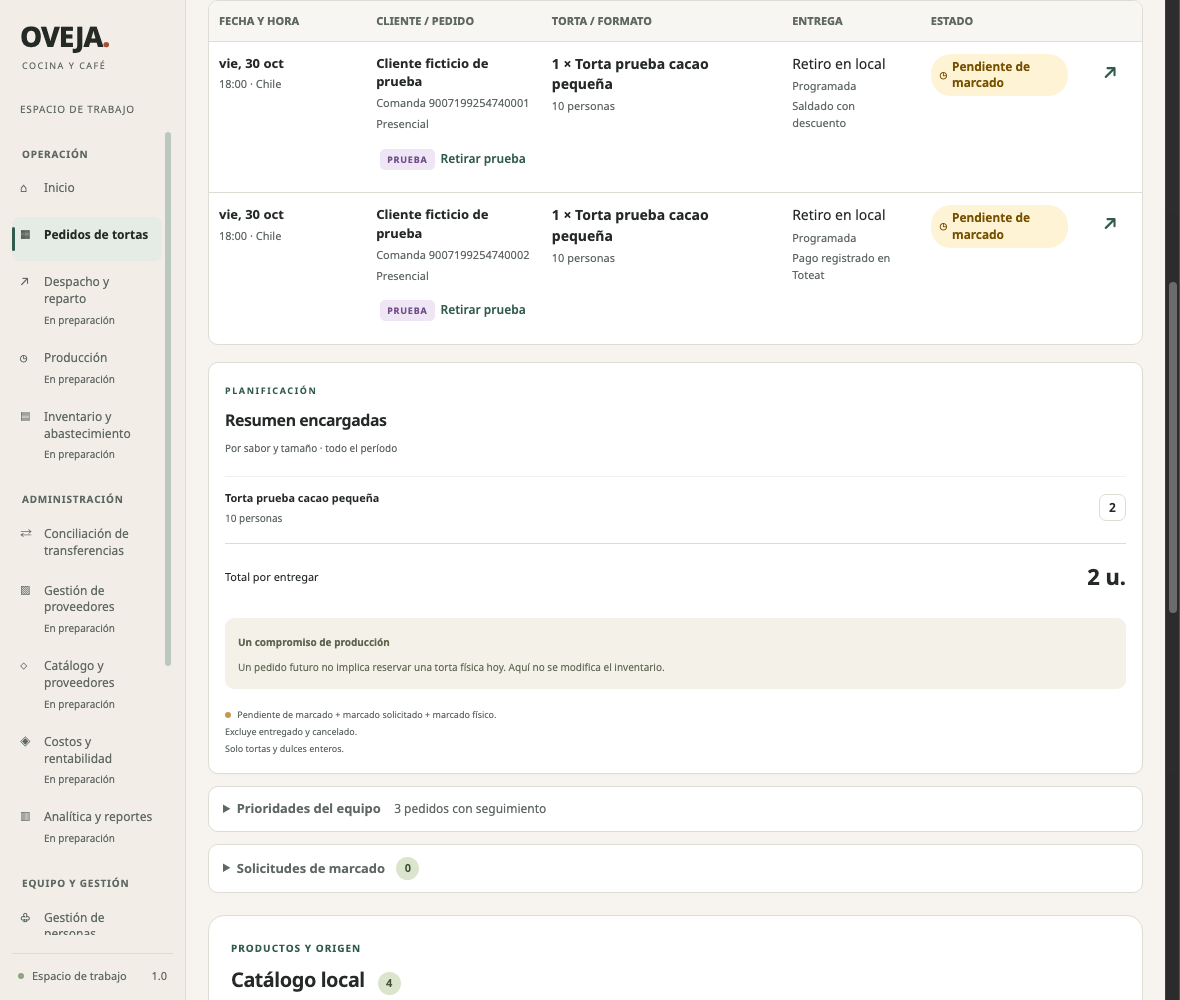
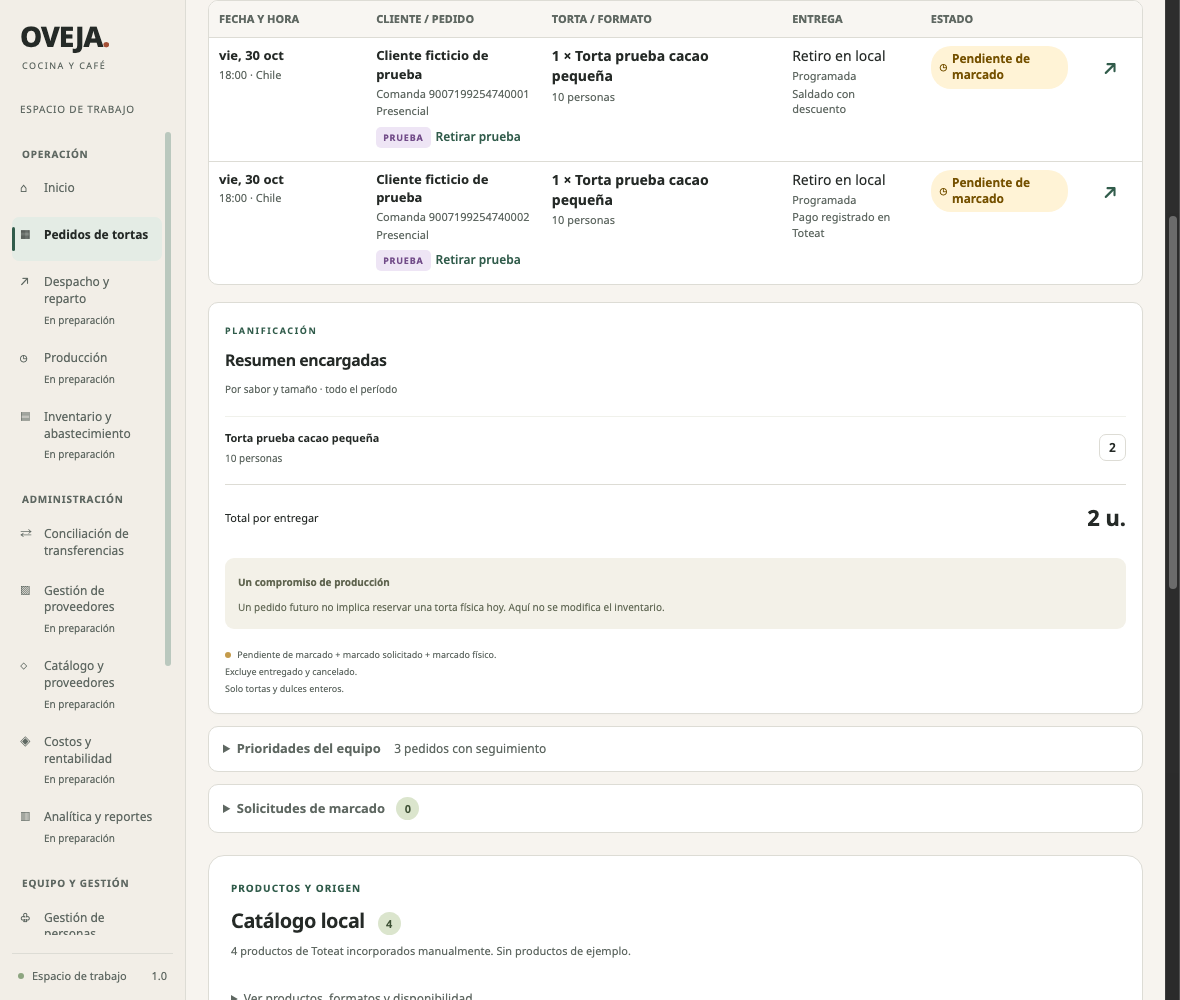
Compact agenda layout so upcoming orders appear in the first desktop viewport

diff --git a/static/theme.css b/static/theme.css
@@ -94,3 +94,33 @@ dialog{background:var(--surface);border-radius:12px;width:min(780px,calc(100vw -
 
 .agenda-table th:last-child{width:64px}.agenda-table td:last-child{padding:8px}.agenda-table .detail-button{min-width:44px}.badge{display:inline-flex;align-items:center;gap:5px}
 @media(max-width:760px){.item-row>.badge{font-size:12px;line-height:1.35;max-width:none;margin-left:37px;padding:5px 9px;text-align:left}.item-info small{overflow-wrap:anywhere}}
+
+/* Agenda density: preserve full text while bringing orders above the fold. */
+#tortas-workspace .page-heading{margin:12px 0;min-height:44px}
+#tortas-workspace .page-heading .eyebrow,#tortas-workspace .page-heading p{display:none}
+.order-tools{display:flex;align-items:center;justify-content:space-between;gap:12px;margin:0 0 10px;flex-wrap:wrap}
+.order-tools .record-scope{padding:0;border:0;background:transparent;margin:0;gap:8px;flex-direction:row;align-items:center}
+.order-tools #scope-notice{position:absolute;width:1px;height:1px;padding:0;margin:-1px;overflow:hidden;clip-path:inset(50%);white-space:nowrap}
+.order-tools .partner-access{margin:0;gap:8px}.order-tools .partner-access>span{font-size:11px}
+#tortas-workspace .workflow-tabs{margin-bottom:10px;padding-bottom:6px}
+#tortas-workspace .metrics{margin:10px 0;gap:12px}
+#tortas-workspace .metric{padding:10px 12px;min-width:0}
+#tortas-workspace .metric-heading{font-size:12px;min-height:20px}
+#tortas-workspace .metric-icon{width:22px;height:22px}
+#tortas-workspace .metric>strong{font-size:26px;line-height:1.15;margin:4px 0}
+#tortas-workspace .metric>strong.unknown{font-size:18px;line-height:1.65;padding:0;margin:4px 0}
+#tortas-workspace .metric small{font-size:11px;line-height:1.35}
+#tortas-workspace .period-toolbar{margin:10px 0;gap:8px}
+.orders-panel>.panel-title{margin:8px 0}
+.orders-panel>.panel-title .eyebrow{display:none}
+.orders-panel>.panel-title h2{margin:0;font-size:20px;line-height:1.3}
+.orders-panel>.panel-title p{margin:3px 0 0;font-size:11px}
+.orders-panel>.filters{margin:8px 0;gap:10px}
+.agenda-table th{padding:10px}.agenda-table td{padding:8px 10px}
+.agenda-table small{margin:2px 0;line-height:1.4}
+.agenda-table .table-product,.agenda-table .table-status{padding-bottom:0;margin-bottom:4px}
+.agenda-table .test-badge{margin:4px 5px 0 0}
+.agenda-table .text-button{min-height:32px;padding:4px 0}
+@media(min-width:761px){#tortas-workspace .demo-banner{padding:7px 12px;font-size:11px}.order-tools .record-scope select{padding:8px;min-height:38px}.order-tools .button{min-height:38px;padding:8px 12px}.workflow-tabs button{min-height:38px;padding:8px 12px}}
+@media(max-width:760px){.order-tools{gap:8px}.order-tools .record-scope{width:100%}.order-tools .record-scope label{width:100%;display:flex;align-items:center;justify-content:space-between}.order-tools .partner-access{width:100%;justify-content:space-between}.order-tools .partner-access>span{font-size:10px}#tortas-workspace .metric-heading{font-size:11px}#tortas-workspace .metric>strong.unknown{font-size:16px}#tortas-workspace .page-heading{gap:10px}.orders-panel>.panel-title{align-items:center}}
+@media(pointer:coarse){.agenda-table .text-button{min-height:44px}}

diff --git a/static/index.html b/static/index.html
@@ -51,7 +51,7 @@
       <div id="tortas-workspace">
       <div class="demo-banner"><span class="demo-tag">DEMO</span><span id="data-notice"><strong>Pedidos y conteos ficticios.</strong> Catálogo demo · sin conexión a Toteat.</span><span class="connection"><span class="status-dot"></span> Sin sincronización</span></div>
       <section class="page-heading"><div><div class="eyebrow">OVEJA · PEDIDOS Y PRODUCCIÓN</div><h1>Tortas y pedidos</h1><p>Agenda, entregas y coordinación de producción.</p></div><button id="new-order" class="button primary admin-only"><span aria-hidden="true">＋</span> Nuevo pedido demo</button></section>
-      <div class="record-scope hidden" id="record-scope-wrap"><label>Registros <select id="record-scope" aria-label="Vista de registros"><option value="operations">Operación</option><option value="tests">Simulaciones</option><option value="archived">Pruebas retiradas</option></select></label><span id="scope-notice">Las simulaciones no afectan los indicadores operativos ni el stock.</span></div><div class="partner-access"><button id="sos-access" class="button secondary hidden">Toma de pedido manual</button><span id="partner-session-state">Acceso personal</span></div>
+      <div class="order-tools"><div class="record-scope hidden" id="record-scope-wrap"><label>Registros <select id="record-scope" aria-label="Vista de registros"><option value="operations">Operación</option><option value="tests">Simulaciones</option><option value="archived">Pruebas retiradas</option></select></label><span id="scope-notice">Las simulaciones no afectan los indicadores operativos ni el stock.</span></div><div class="partner-access"><button id="sos-access" class="button secondary hidden">Toma de pedido manual</button><span id="partner-session-state">Acceso personal</span></div></div>
       <nav class="workflow-tabs" aria-label="Etapas de los pedidos"><button data-view="inbox" aria-pressed="false">1 · Lectura de Toteat <span id="inbox-tab-count" class="count-bubble">0</span></button><button data-view="agenda" class="selected" aria-pressed="true">2 · Agendadas</button></nav>
       <div id="reader-warning" class="error agenda-only hidden" role="status"></div>
       <section class="metrics agenda-only" aria-label="Resumen de unidades del período">

diff --git a/docs/CHECKPOINT.md b/docs/CHECKPOINT.md
@@ -13,6 +13,10 @@ Carpeta correcta: `/Users/estebaniturra/Documents/ChatGPT/ERP Oveja`. No se borr
 - **Bloqueo explícito:** la revisión automática rechazó pausar el ERP/lector locales y transferir pedidos, clientes, boletas, historial, hashes de cuentas y configuración privada. Se solicitó autorización específica y sigue sin respuesta. No se ejecutó el script de congelación/migración ni se copió ese archivo de datos al servidor. No reintentar la migración para sortear ese rechazo. La posterior aprobación de un reinicio exclusivamente local no autoriza por sí misma la transferencia privada a Hetzner.
 - **Instalación local actualizada a las 22:31:55 UTC:** `http://127.0.0.1:8765`, PID 9314, código `1dcf612`. La alternativa limitada al Mac fue aprobada: respaldo verificado y reinicio solo de la web. Lector sin detener y ninguna transferencia al servidor. Tema, Noto Sans, Inicio, Transferencias y Recepción responden 200 con MIME y contenido idénticos al código. Tablas existentes, hashes de cuentas y boletas idénticos al respaldo; integridad y claves foráneas correctas. APIs privadas rechazan acceso anónimo (401; recepción 403). Las sesiones anteriores se invalidaron, no las contraseñas. Evidencia privada `private/local-a-activation.json`. Chrome dedicado sobre localhost real: login anónimo, Noto Sans, 1180/320 sin desbordes ni errores JS; capturas privadas `private/login-live-1180.png` y `private/login-live-320.png`.
 
+## Ajuste de densidad A · revisión posterior
+
+Se compactaron solo cabecera, herramientas, indicadores y filtros de tortas. En QA 1180 × 1000 la tabla pasó de aproximadamente 827 px a 563 px desde el borde superior; dos pedidos completos visibles. Filas adaptables al contenido, sin altura fija que recorte nombres, fecha o estados. En 320 px se conservan tarjetas y controles táctiles. Capturas ficticias actualizadas `qa/access-agenda-1180-fake.png`, `qa/access-agenda-320-fake.png` y `qa/agenda-list-*-fake.png`. El cambio se sirve como HTML/CSS sin reiniciar procesos ni migrar datos.
+
 ## Siguiente paso después de aprobación
 
 1. Congelar escritores locales, obtener y verificar respaldo privado, transferirlo por SSH y comprobar huellas/cuentas/adjuntos en carpeta exclusiva del ERP.
